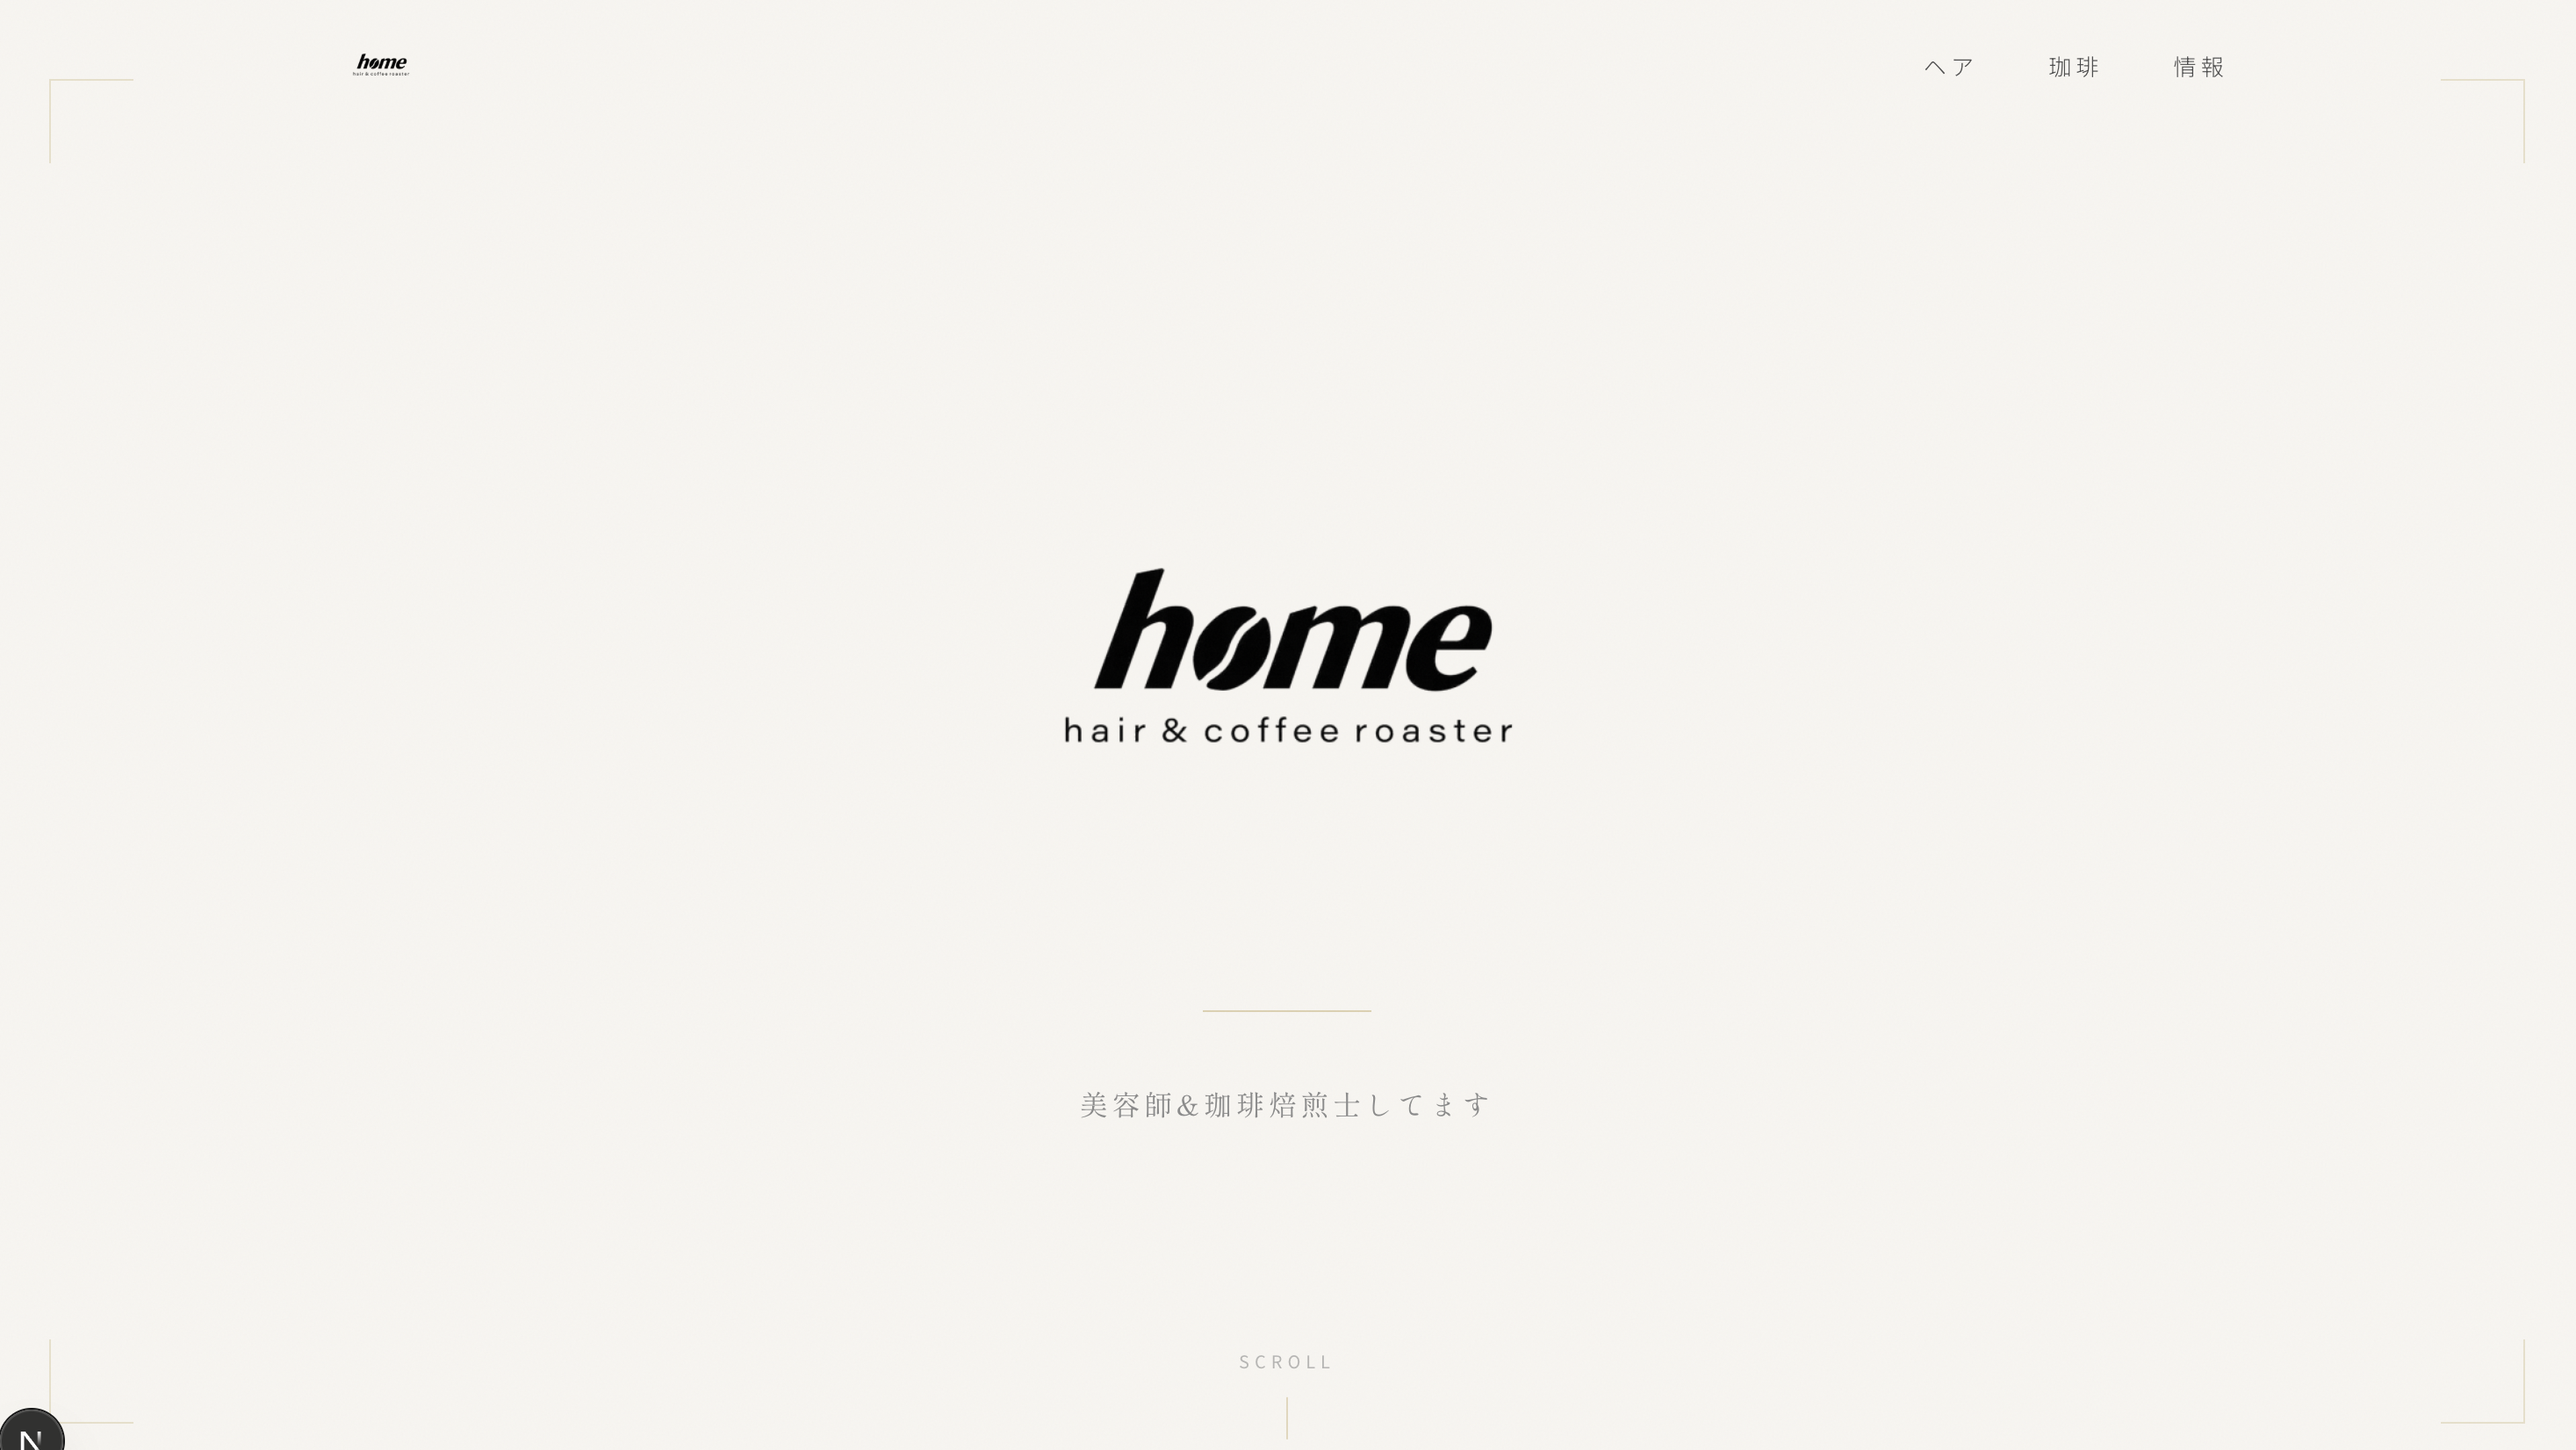
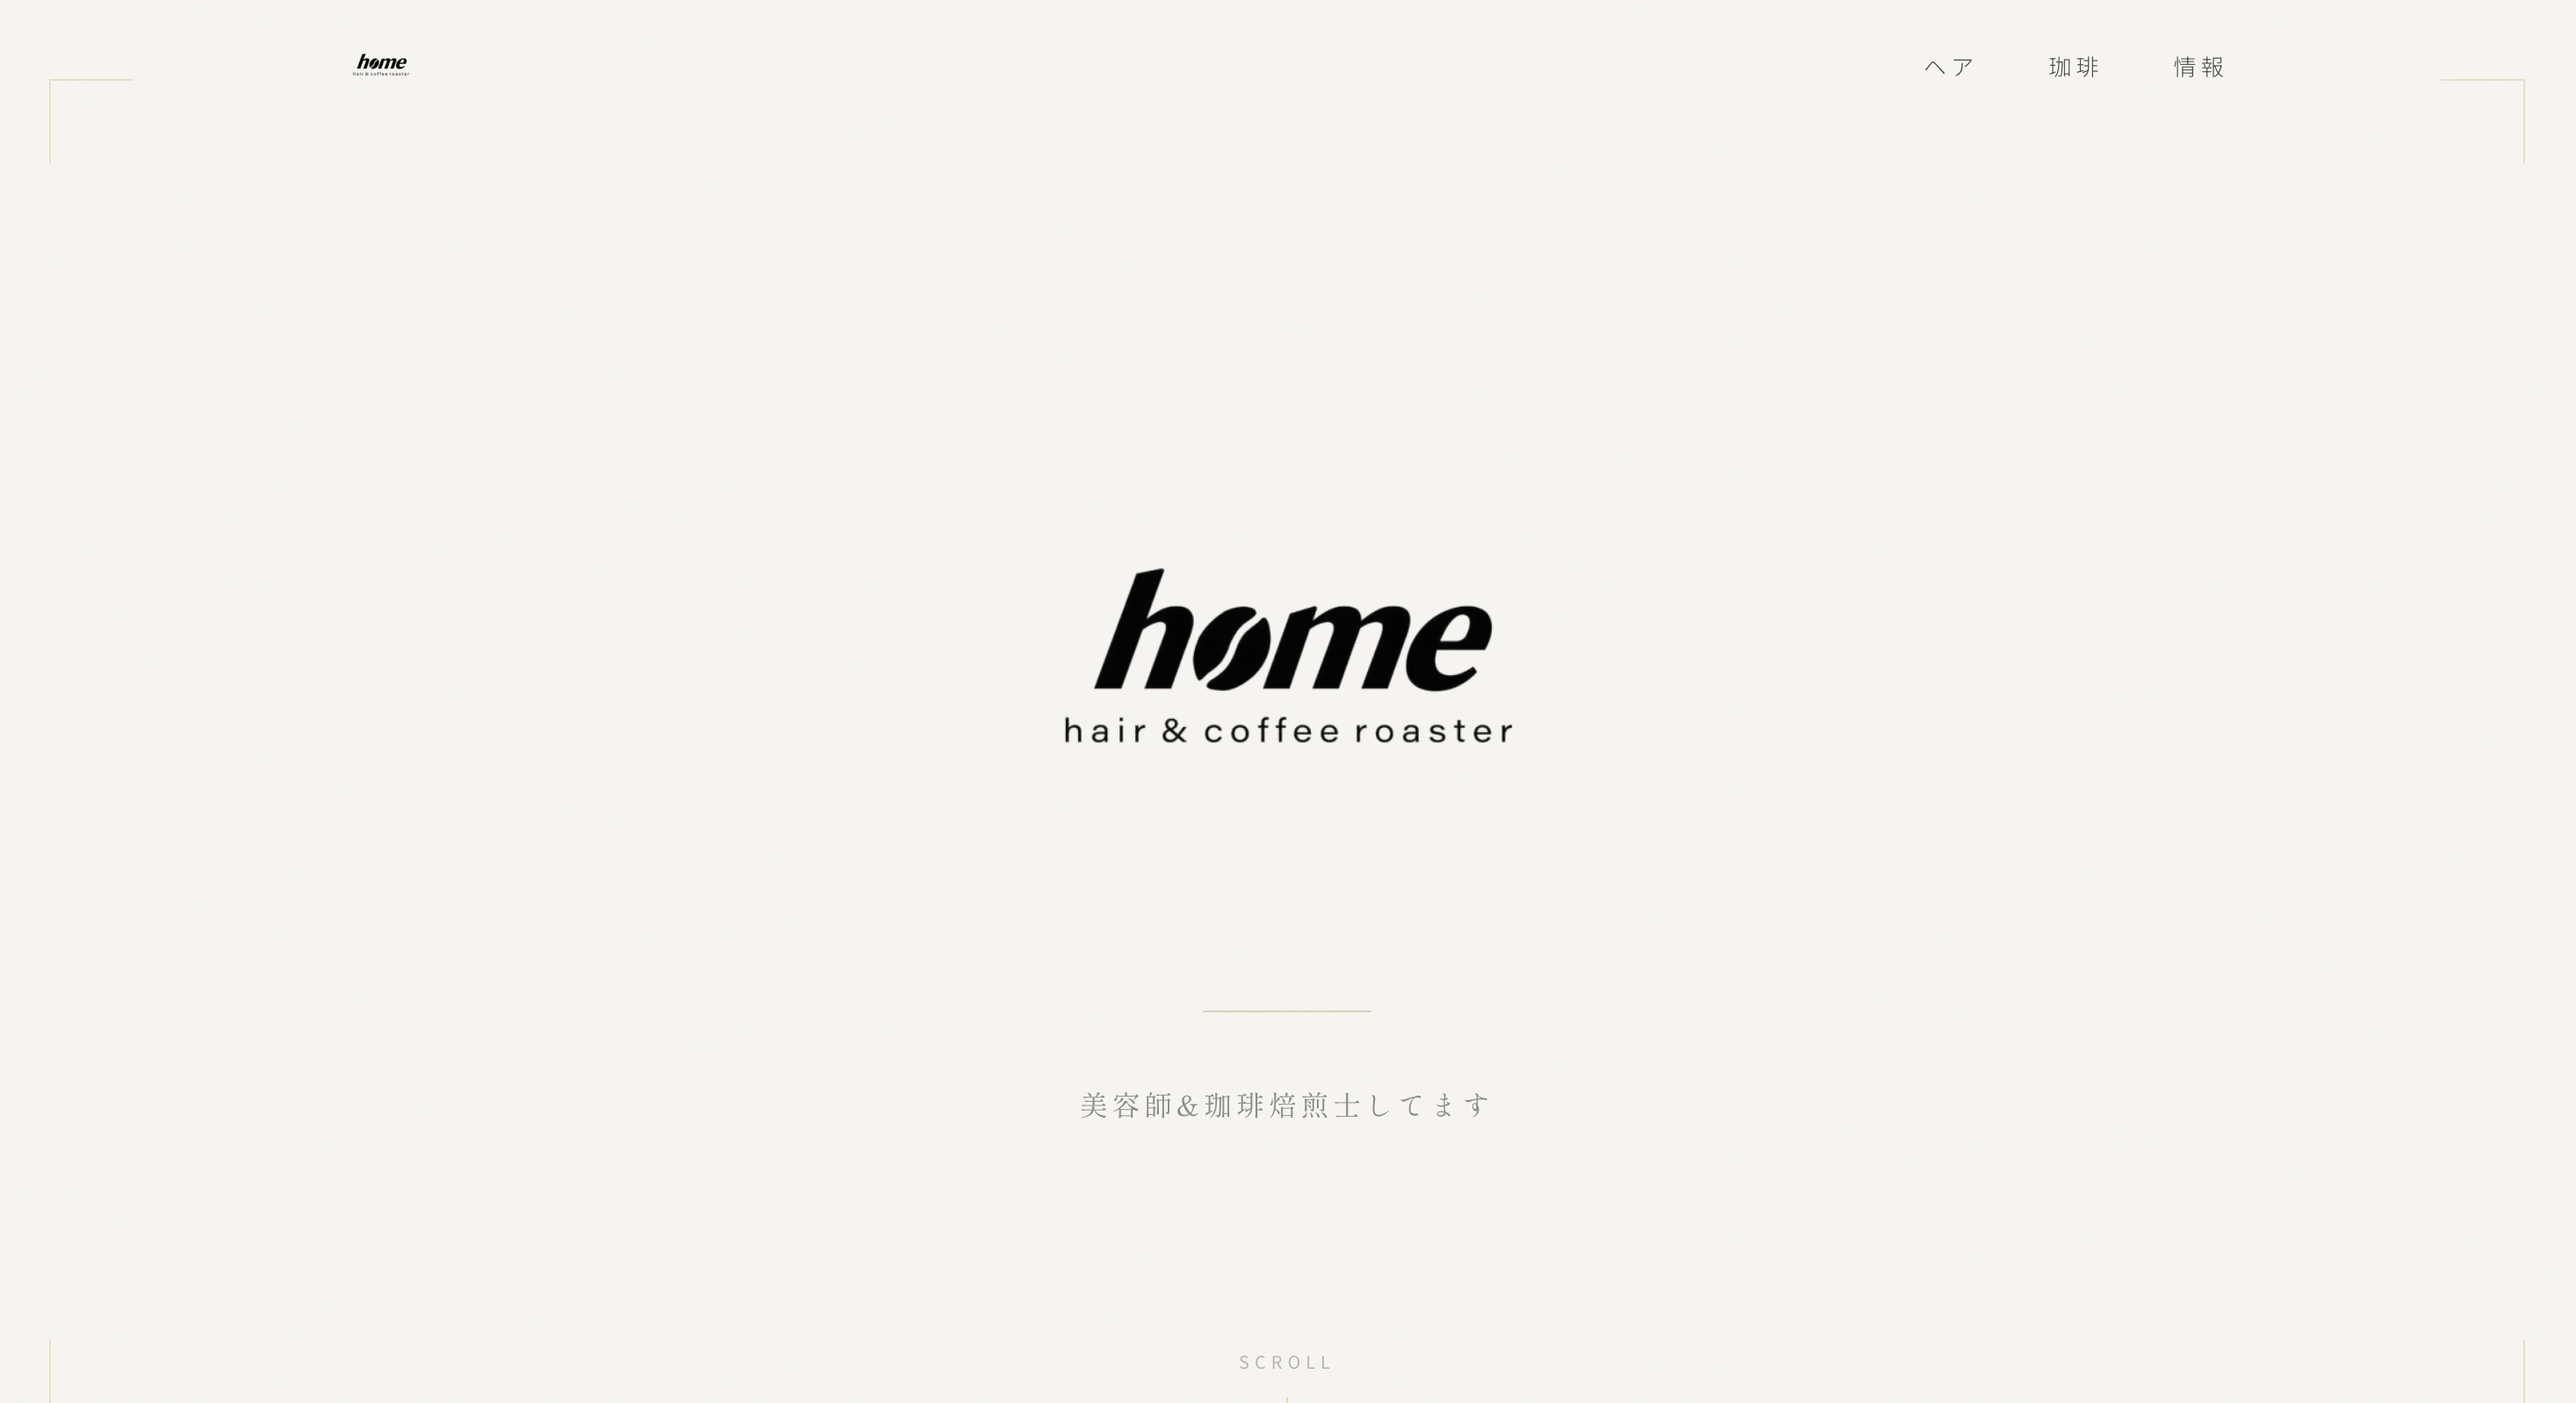
Crop the dev badge off the home hair & coffee hero
The screenshot was taken with the Next dev server running, so its
indicator was baked into the bottom-left corner. Trimmed 54px off the
bottom, clear of the badge, and matched the declared height so the
aspect ratio still lines up before the image loads.

diff --git a/app/[locale]/work/home-hair-coffee/page.tsx b/app/[locale]/work/home-hair-coffee/page.tsx
@@ -77,7 +77,7 @@ export default function HomeHairCoffeePage() {
               src="/home-hair-coffee/home-hair-landing.png"
               alt="Home Hair & Coffee Roaster website"
               width={1200}
-              height={675}
+              height={654}
               className="w-full h-auto object-cover"
               priority
             />
